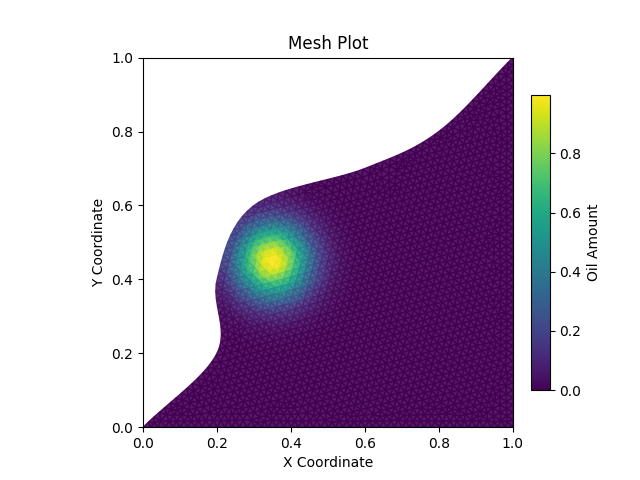
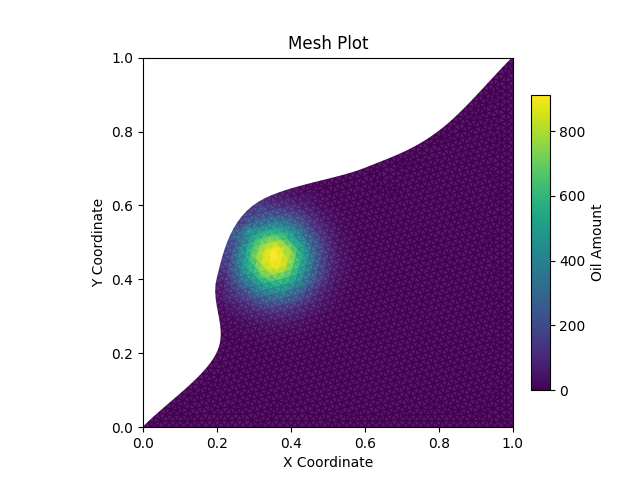
flux somewhat working, but going toward one cell?

diff --git a/scripts/main.py b/scripts/main.py
@@ -14,18 +14,27 @@ def solve(cells, start_point):
     math_function.initial_oil_distribution(cells, start_point)
     initial_cell = math_function.find_initial_cell(cells, start_point)
 
-    for i in range(0,2):
+    for i in range(0,10):
         dt = i / 10
         timestep()
+        plotting.plotting_mesh(cells, i)
 
 def timestep():
+    flux_per_cell = [0] * len(mesh.cells)
     for cell in mesh.cells:
         if cell.type == "triangle":
+            total_flux = 0
             mesh.find_neighbors(cell.index)
             for ngh in cell.neighbors:
                 change = math_function.calculate_change(mesh, cell, ngh, dt)
-                cell.oil_amount -= change
-                ngh.oil_amount += change
+                total_flux += change
+
+            flux_per_cell[cell.index] -= total_flux
+
+    for i, flux in enumerate(flux_per_cell):
+        if mesh.cells[i].type == "triangle":
+            mesh.cells[i].oil_amount += flux
 
 solve(cells, start_point)
-print(mesh.cells[309].oil_amount)
+print(mesh.cells[1500].oil_amount)
+

diff --git a/scripts/math_function.py b/scripts/math_function.py
@@ -149,12 +149,13 @@ def calculate_change(mesh: object, cell: object, neighbor: object, dt: float):
         point1, point2, mid_cell
     )
     v_mid = (velocity(mid_cell) + velocity(mid_neighbor)) / 2
+    scaled_velocity_vector = v_mid / np.linalg.norm(v_mid)
+    
     flux = g(
-        cell.oil_amount, neighbor.oil_amount, scaled_normal_vector, v_mid
+        cell.oil_amount, neighbor.oil_amount, scaled_velocity_vector, v_mid
     )
-    total_flux += flux
 
-    return -dt / area * total_flux
+    return -dt / area * flux
 
 
 """ 

diff --git a/scripts/plotting.py b/scripts/plotting.py
@@ -44,6 +44,6 @@ def plotting_mesh(cells, i):
     plt.gca().set_aspect("equal")
     plt.xlim(0, 1)
     plt.ylim(0, 1)
-    filename = f"../images/mesh_plot{i}.png"
+    filename = f"images/mesh_plot{i+1}.png"
     plt.savefig(filename)
-    plt.show()
+
